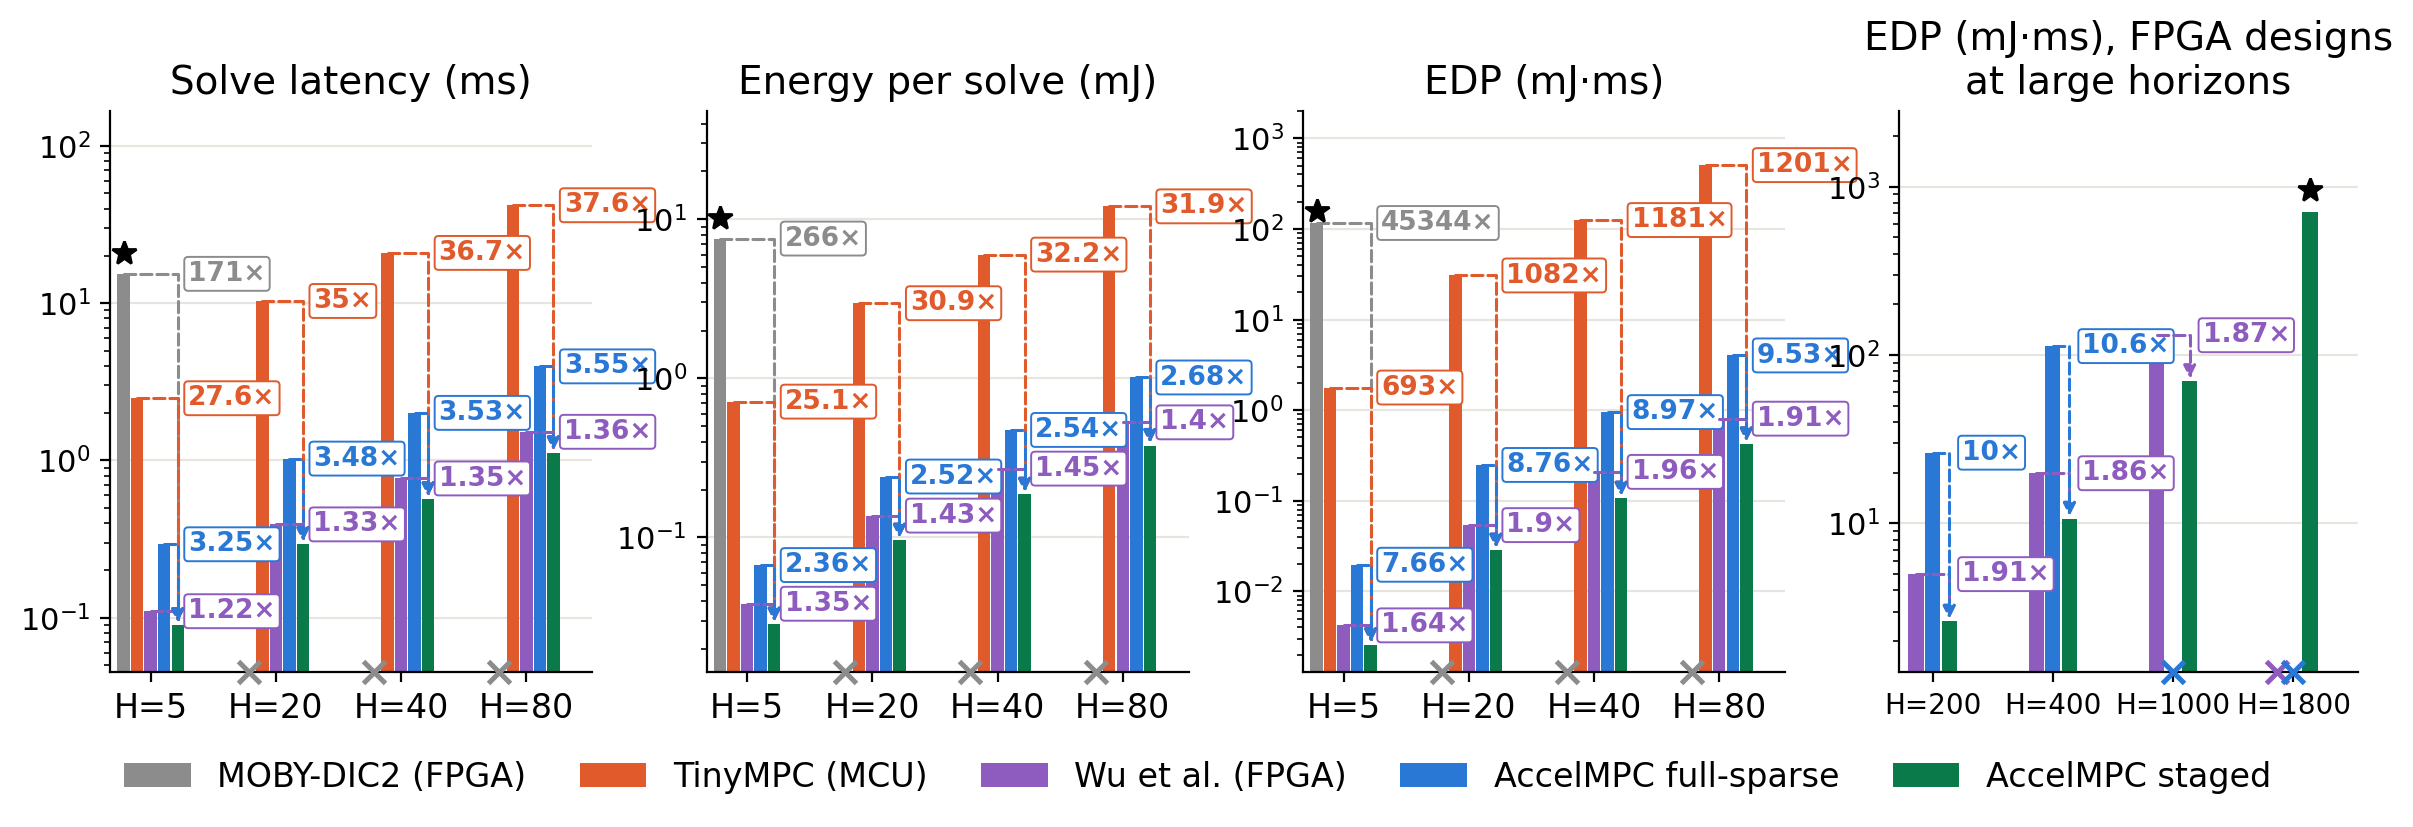
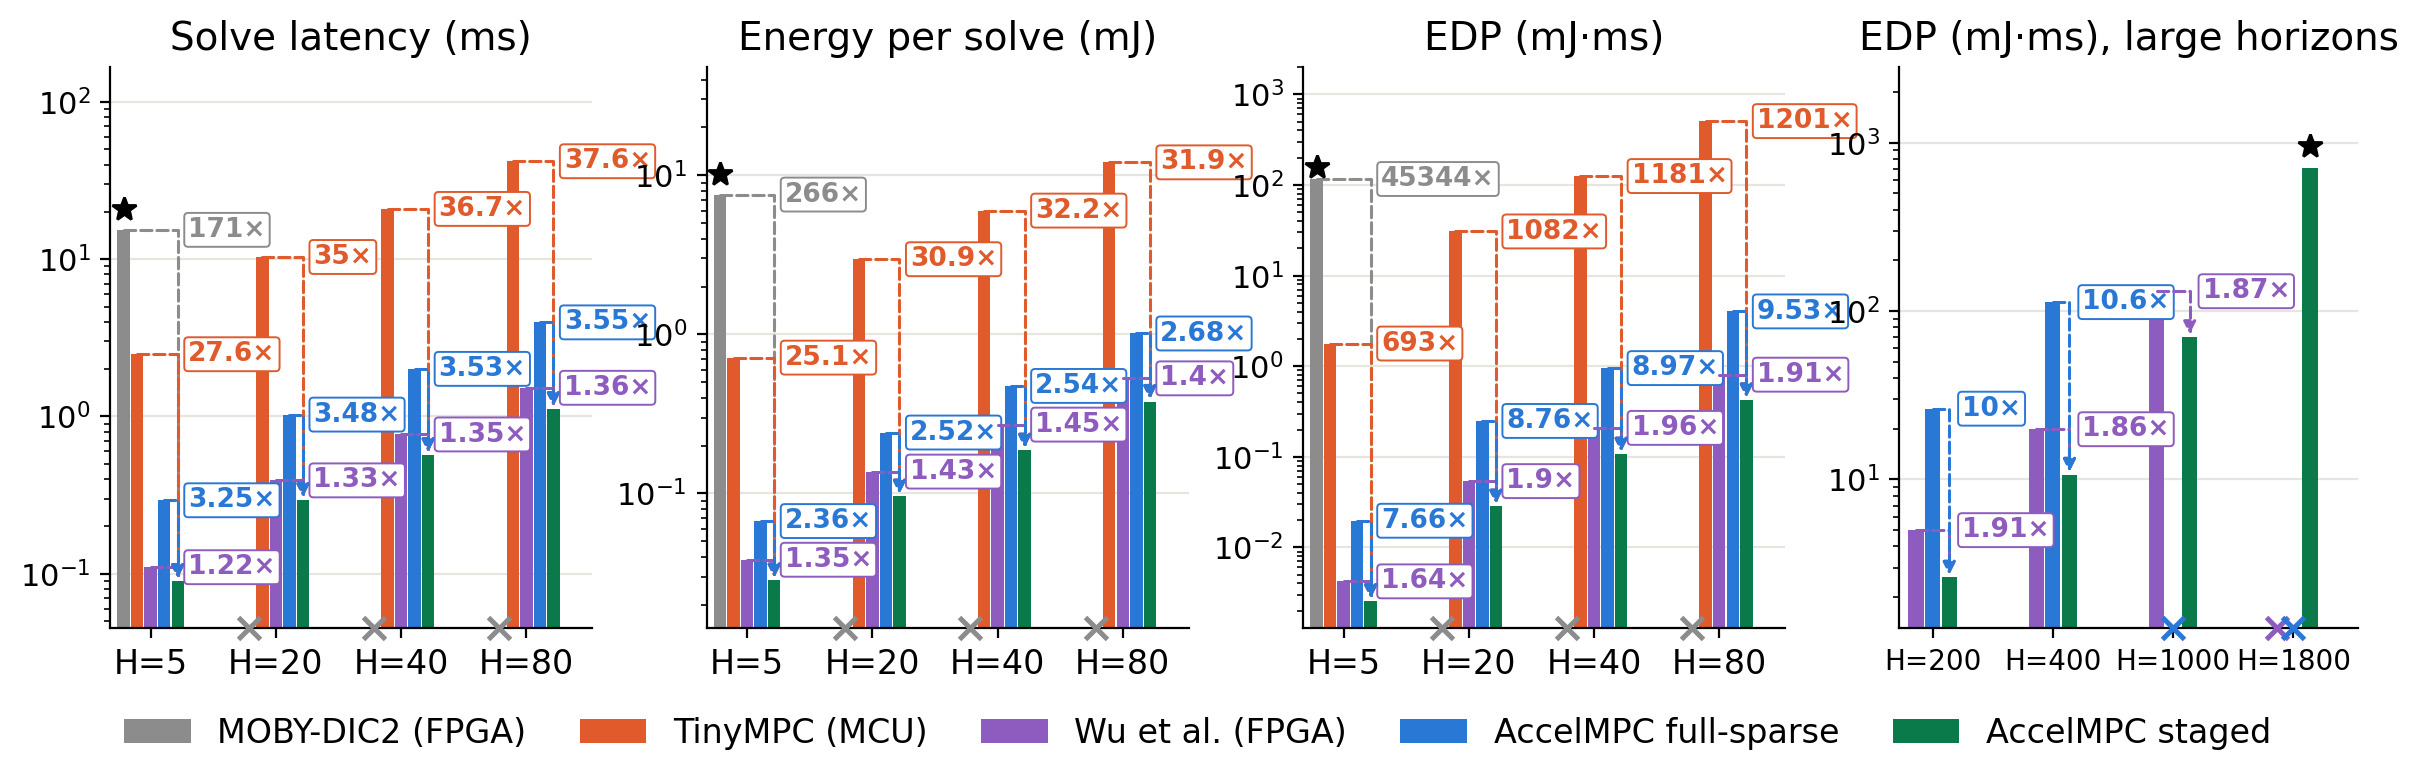
dismissal bars slightly more vertically compact

diff --git a/evaluation/paper_figures.py b/evaluation/paper_figures.py
@@ -171,7 +171,7 @@ def figure1(rows):
     ax4 = fig.add_subplot(gs[0, 3])
     lo4, hi4 = draw(ax4, metrics[2][1], high, fpga, label_legend=False)
     ax4.set_ylim(lo4, hi4)
-    ax4.set_title("EDP (mJ·ms), FPGA designs\nat large horizons", fontsize=14)
+    ax4.set_title("EDP (mJ·ms), large horizons", fontsize=14)
     save(fig, "fig1_dismissal_bars")
 
 
